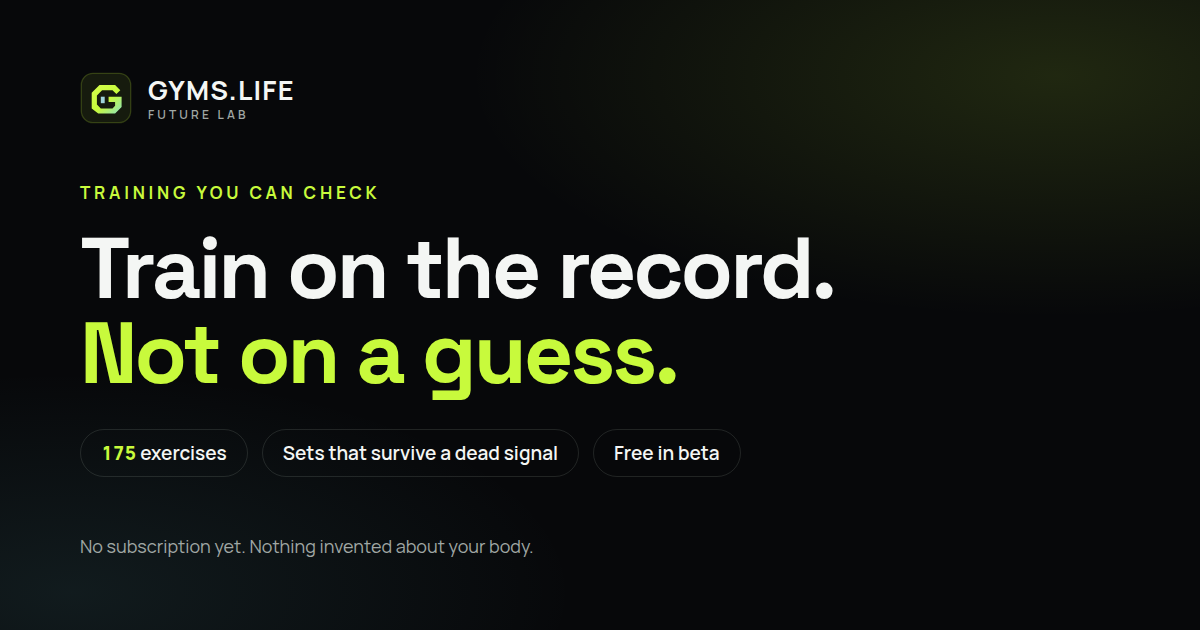
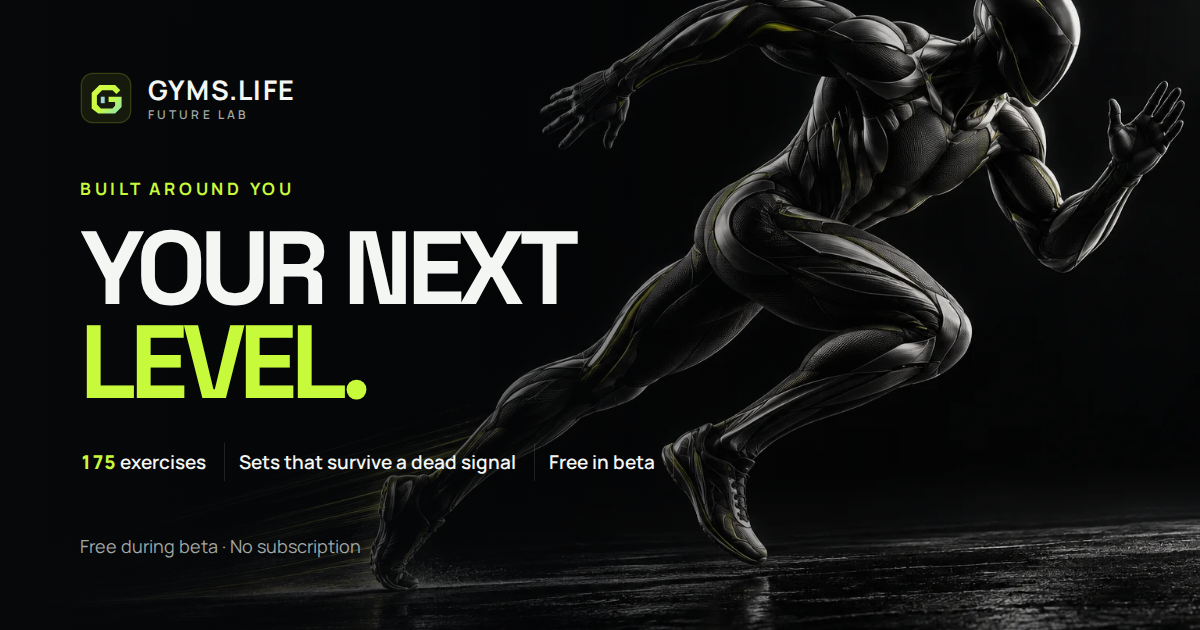
design: finish signature preview artwork and formatting

diff --git a/src/components/future-lab/signature-design.css b/src/components/future-lab/signature-design.css
@@ -41,7 +41,7 @@
   object-fit: cover;
   object-position: center;
   pointer-events: none;
-  animation: fl-signature-art-enter 1200ms cubic-bezier(.16, 1, .3, 1) both;
+  animation: fl-signature-art-enter 1200ms cubic-bezier(0.16, 1, 0.3, 1) both;
 }
 
 .fl-landing.fl-landing--signature .fl-landing-hero::before,
@@ -66,8 +66,8 @@
   margin: 30px 0 24px;
   font-size: clamp(64px, 7.6vw, 112px);
   font-weight: 700;
-  line-height: .88;
-  letter-spacing: -.075em;
+  line-height: 0.88;
+  letter-spacing: -0.075em;
   text-transform: uppercase;
   text-wrap: initial;
   color: var(--foreground);
@@ -90,7 +90,7 @@
   color: var(--foreground);
   font-size: 11px;
   font-weight: 600;
-  letter-spacing: .18em;
+  letter-spacing: 0.18em;
 }
 
 .fl-landing.fl-landing--signature .fl-landing-lead {
@@ -143,7 +143,7 @@
 .fl-landing.fl-landing--signature h2 {
   font-size: clamp(36px, 4.4vw, 64px);
   line-height: 1.03;
-  letter-spacing: -.055em;
+  letter-spacing: -0.055em;
 }
 
 .fl-landing--signature .fl-landing-worlds {
@@ -178,7 +178,7 @@
 
 .fl-landing.fl-landing--signature .fl-landing-world h3 {
   font-size: 28px;
-  letter-spacing: -.04em;
+  letter-spacing: -0.04em;
 }
 
 .fl-landing.fl-landing--signature .fl-landing-world h3 + p {
@@ -206,7 +206,7 @@
   font-size: 140px;
   font-weight: 700;
   line-height: 1;
-  letter-spacing: -.08em;
+  letter-spacing: -0.08em;
   color: color-mix(in srgb, var(--foreground) 12%, transparent);
 }
 
@@ -251,7 +251,7 @@
   font-family: var(--font-display);
   font-size: clamp(100px, 14vw, 210px);
   font-weight: 700;
-  letter-spacing: -.1em;
+  letter-spacing: -0.1em;
   line-height: 1;
   color: var(--primary);
 }
@@ -260,7 +260,7 @@
   display: block;
   margin-top: 16px;
   font-size: 12px;
-  letter-spacing: .06em;
+  letter-spacing: 0.06em;
   color: var(--muted-foreground);
 }
 
@@ -299,7 +299,7 @@
   color: var(--muted-foreground);
   font-size: 10px;
   font-weight: 700;
-  letter-spacing: .18em;
+  letter-spacing: 0.18em;
 }
 
 .future-lab-app.fl-performance-shell .fl-session-copy h3 {
@@ -307,8 +307,8 @@
   font-family: var(--font-display);
   font-size: clamp(36px, 4.3vw, 60px);
   font-weight: 700;
-  line-height: .96;
-  letter-spacing: -.06em;
+  line-height: 0.96;
+  letter-spacing: -0.06em;
   color: var(--foreground);
   text-wrap: balance;
   overflow-wrap: anywhere;
@@ -344,9 +344,11 @@
   color: var(--primary-foreground);
   font-size: 15px;
   font-weight: 800;
-  letter-spacing: .01em;
+  letter-spacing: 0.01em;
   text-transform: none;
-  transition: filter 160ms ease, transform 160ms ease;
+  transition:
+    filter 160ms ease,
+    transform 160ms ease;
 }
 
 .future-lab-app.fl-performance-shell .fl-session-hero .fl-plan-start:hover {
@@ -391,25 +393,45 @@
   text-align: left;
 }
 
-.future-lab-app.fl-performance-shell .fl-dashboard .fl-readiness-summary > div:last-child > p:first-child {
+.future-lab-app.fl-performance-shell
+  .fl-dashboard
+  .fl-readiness-summary
+  > div:last-child
+  > p:first-child {
   font-size: 12px;
   line-height: 1.4;
 }
 
-.future-lab-app.fl-performance-shell .fl-dashboard .fl-readiness-summary > div:last-child > p:last-child {
+.future-lab-app.fl-performance-shell
+  .fl-dashboard
+  .fl-readiness-summary
+  > div:last-child
+  > p:last-child {
   margin-top: 8px;
   font-size: 24px;
   line-height: 1.2;
 }
 
 @keyframes fl-signature-art-enter {
-  from { opacity: .65; transform: scale(1.035); }
-  to { opacity: 1; transform: scale(1); }
+  from {
+    opacity: 0.65;
+    transform: scale(1.035);
+  }
+  to {
+    opacity: 1;
+    transform: scale(1);
+  }
 }
 
 @keyframes fl-signature-copy-enter {
-  from { opacity: .6; transform: translateY(10px); }
-  to { opacity: 1; transform: translateY(0); }
+  from {
+    opacity: 0.6;
+    transform: translateY(10px);
+  }
+  to {
+    opacity: 1;
+    transform: translateY(0);
+  }
 }
 
 @media (max-width: 1000px) {
@@ -425,7 +447,7 @@
   }
   .fl-landing--signature .fl-landing-hero-art {
     object-position: 65% center;
-    opacity: .8;
+    opacity: 0.8;
   }
   .fl-landing--signature .fl-landing-twin-feature {
     gap: 32px;
@@ -433,7 +455,7 @@
   .fl-landing--signature .fl-landing-world:nth-child(2) {
     border-right: 0;
   }
-  .fl-landing--signature .fl-landing-world:nth-child(-n+2) {
+  .fl-landing--signature .fl-landing-world:nth-child(-n + 2) {
     border-bottom: 1px solid var(--border);
   }
 }
@@ -470,10 +492,18 @@
     width: 80px;
     height: 80px;
   }
-  .future-lab-app.fl-performance-shell .fl-dashboard .fl-readiness-summary > div:first-child > span {
+  .future-lab-app.fl-performance-shell
+    .fl-dashboard
+    .fl-readiness-summary
+    > div:first-child
+    > span {
     font-size: 30px;
   }
-  .future-lab-app.fl-performance-shell .fl-dashboard .fl-readiness-summary > div:last-child > p:last-child {
+  .future-lab-app.fl-performance-shell
+    .fl-dashboard
+    .fl-readiness-summary
+    > div:last-child
+    > p:last-child {
     font-size: 20px;
   }
 }
@@ -502,7 +532,7 @@
   .fl-landing.fl-landing--signature h1 {
     margin: 22px 0;
     font-size: clamp(46px, 11.5vw, 72px);
-    line-height: .92;
+    line-height: 0.92;
   }
   .fl-landing.fl-landing--signature .fl-landing-lead {
     font-size: 14px;

diff --git a/src/components/FutureLabLanding.tsx b/src/components/FutureLabLanding.tsx
@@ -93,7 +93,7 @@ export const copy = {
       },
       {
         title: "Look back. Move forward.",
-        text: "Review your history with your Twin and Intelligence. Adjust your next step with context.",
+        text: "Review your history with your Twin and coach. Adjust your next step with context.",
       },
     ],
     libraryTag: "MOVE WITH INTENTION",
@@ -199,7 +199,7 @@ export const copy = {
       },
       {
         title: "Įvertink. Judėk toliau.",
-        text: "Peržiūrėk istoriją su dvyniu ir Intelligence. Koreguok kitą žingsnį atsižvelgdamas į kontekstą.",
+        text: "Peržiūrėk istoriją su dvyniu ir treneriu. Koreguok kitą žingsnį atsižvelgdamas į kontekstą.",
       },
     ],
     libraryTag: "JUDĖK KRYPTINGAI",
@@ -324,7 +324,9 @@ export function FutureLabLanding() {
             <p className="fl-public-eyebrow">DIGITAL TWIN</p>
             <h2 id="twin-feature-title">{c.twinTitle}</h2>
             <p>{c.twinText}</p>
-            <span className="fl-twin-feature-index" aria-hidden="true">02</span>
+            <span className="fl-twin-feature-index" aria-hidden="true">
+              02
+            </span>
           </div>
           <div className="fl-landing-preview" aria-label={c.demo}>
             <div className="fl-landing-preview-head">

diff --git a/src/components/TodaysPlanPanel.tsx b/src/components/TodaysPlanPanel.tsx
@@ -84,11 +84,7 @@ function Session({ workout, day }: { workout: TrainingPlanDay; day: number }) {
               <strong>{count}</strong> {exerciseLabel}
             </span>
           </div>
-          <Link
-            to="/workout/$day"
-            params={{ day: String(day) }}
-            className="fl-plan-start"
-          >
+          <Link to="/workout/$day" params={{ day: String(day) }} className="fl-plan-start">
             {t("tp.start")}
             <ArrowUpRight aria-hidden="true" size={20} />
           </Link>
